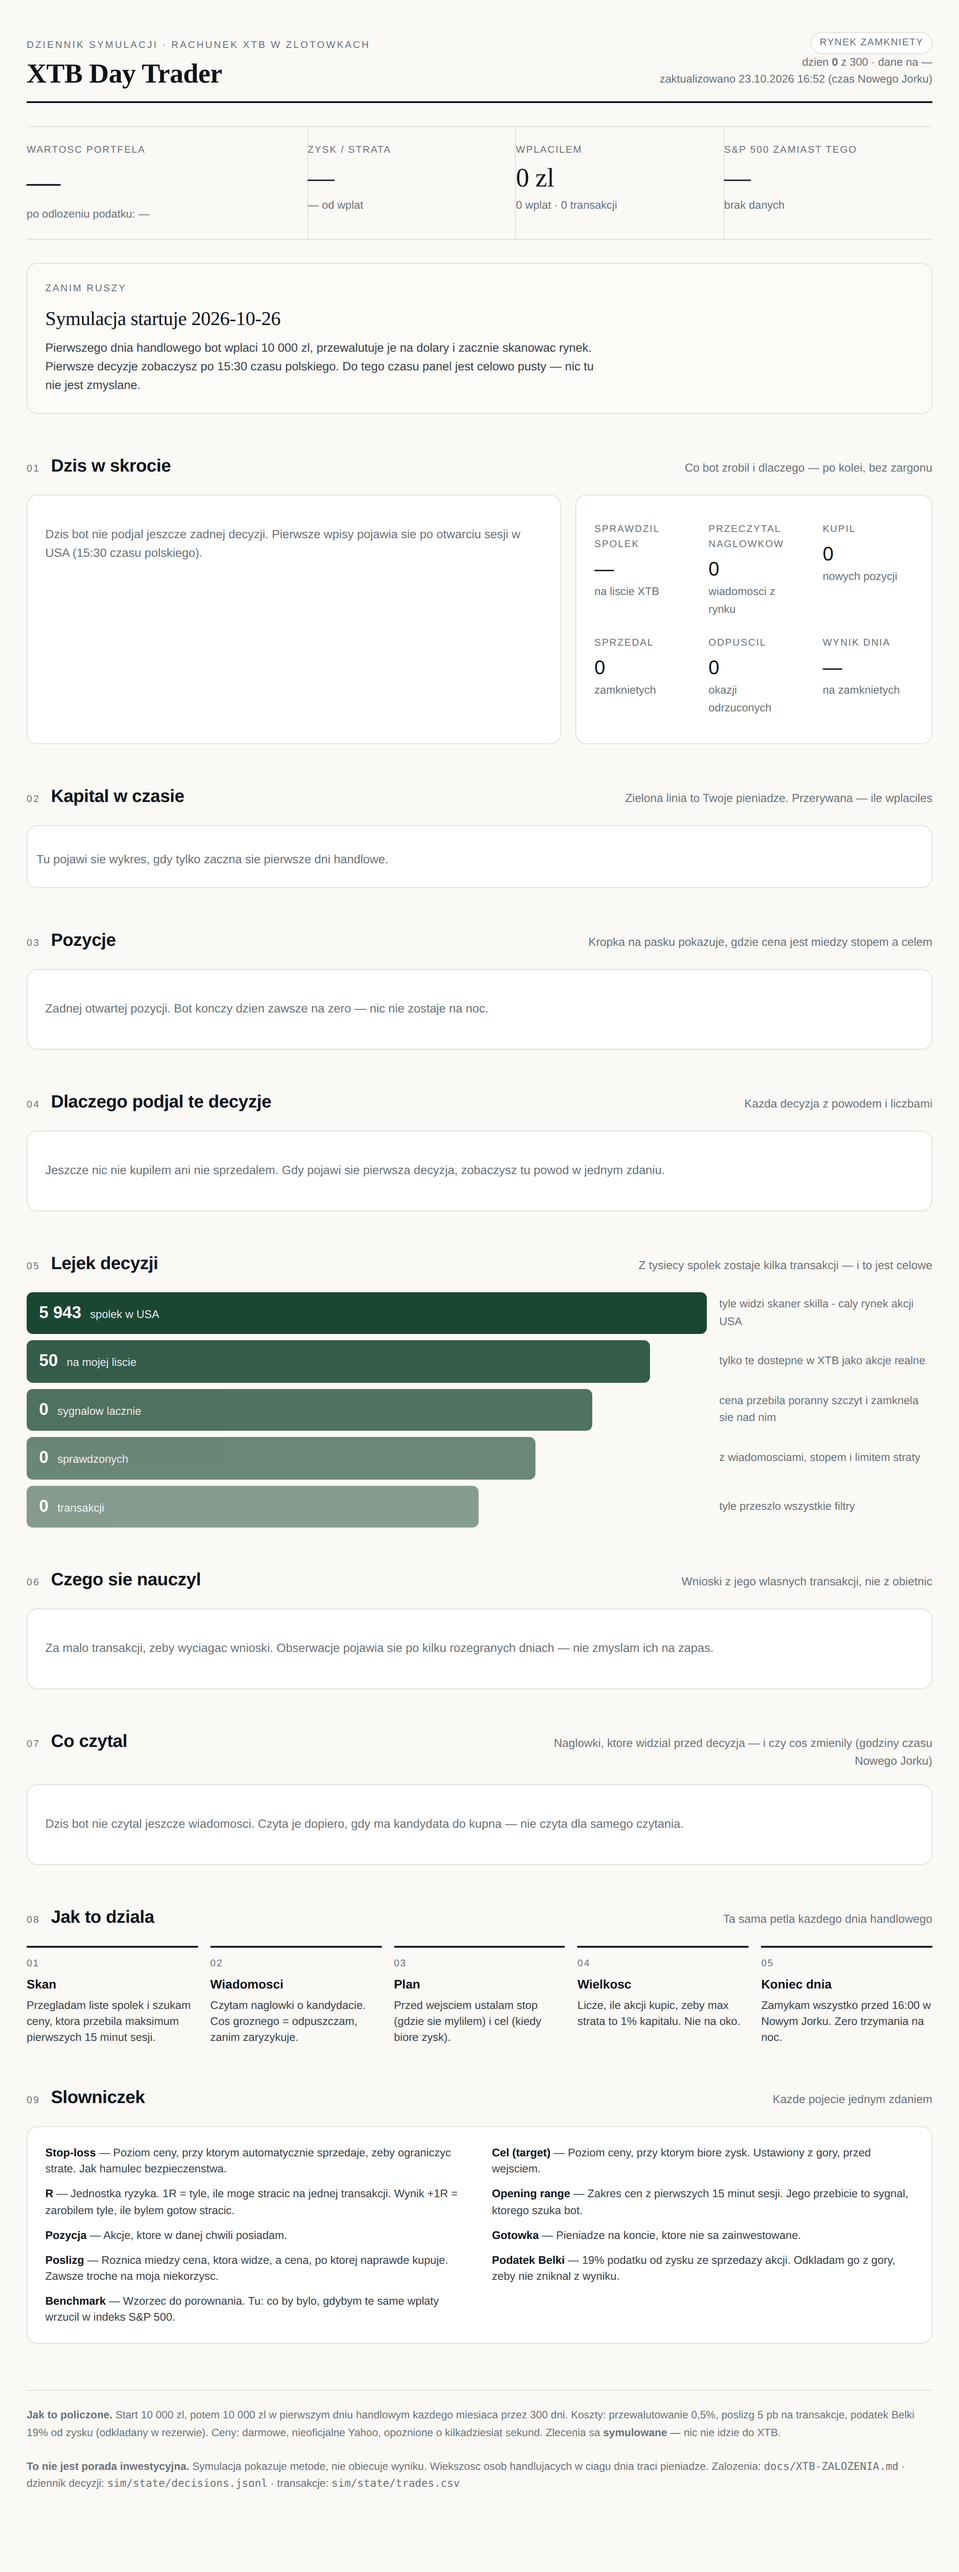
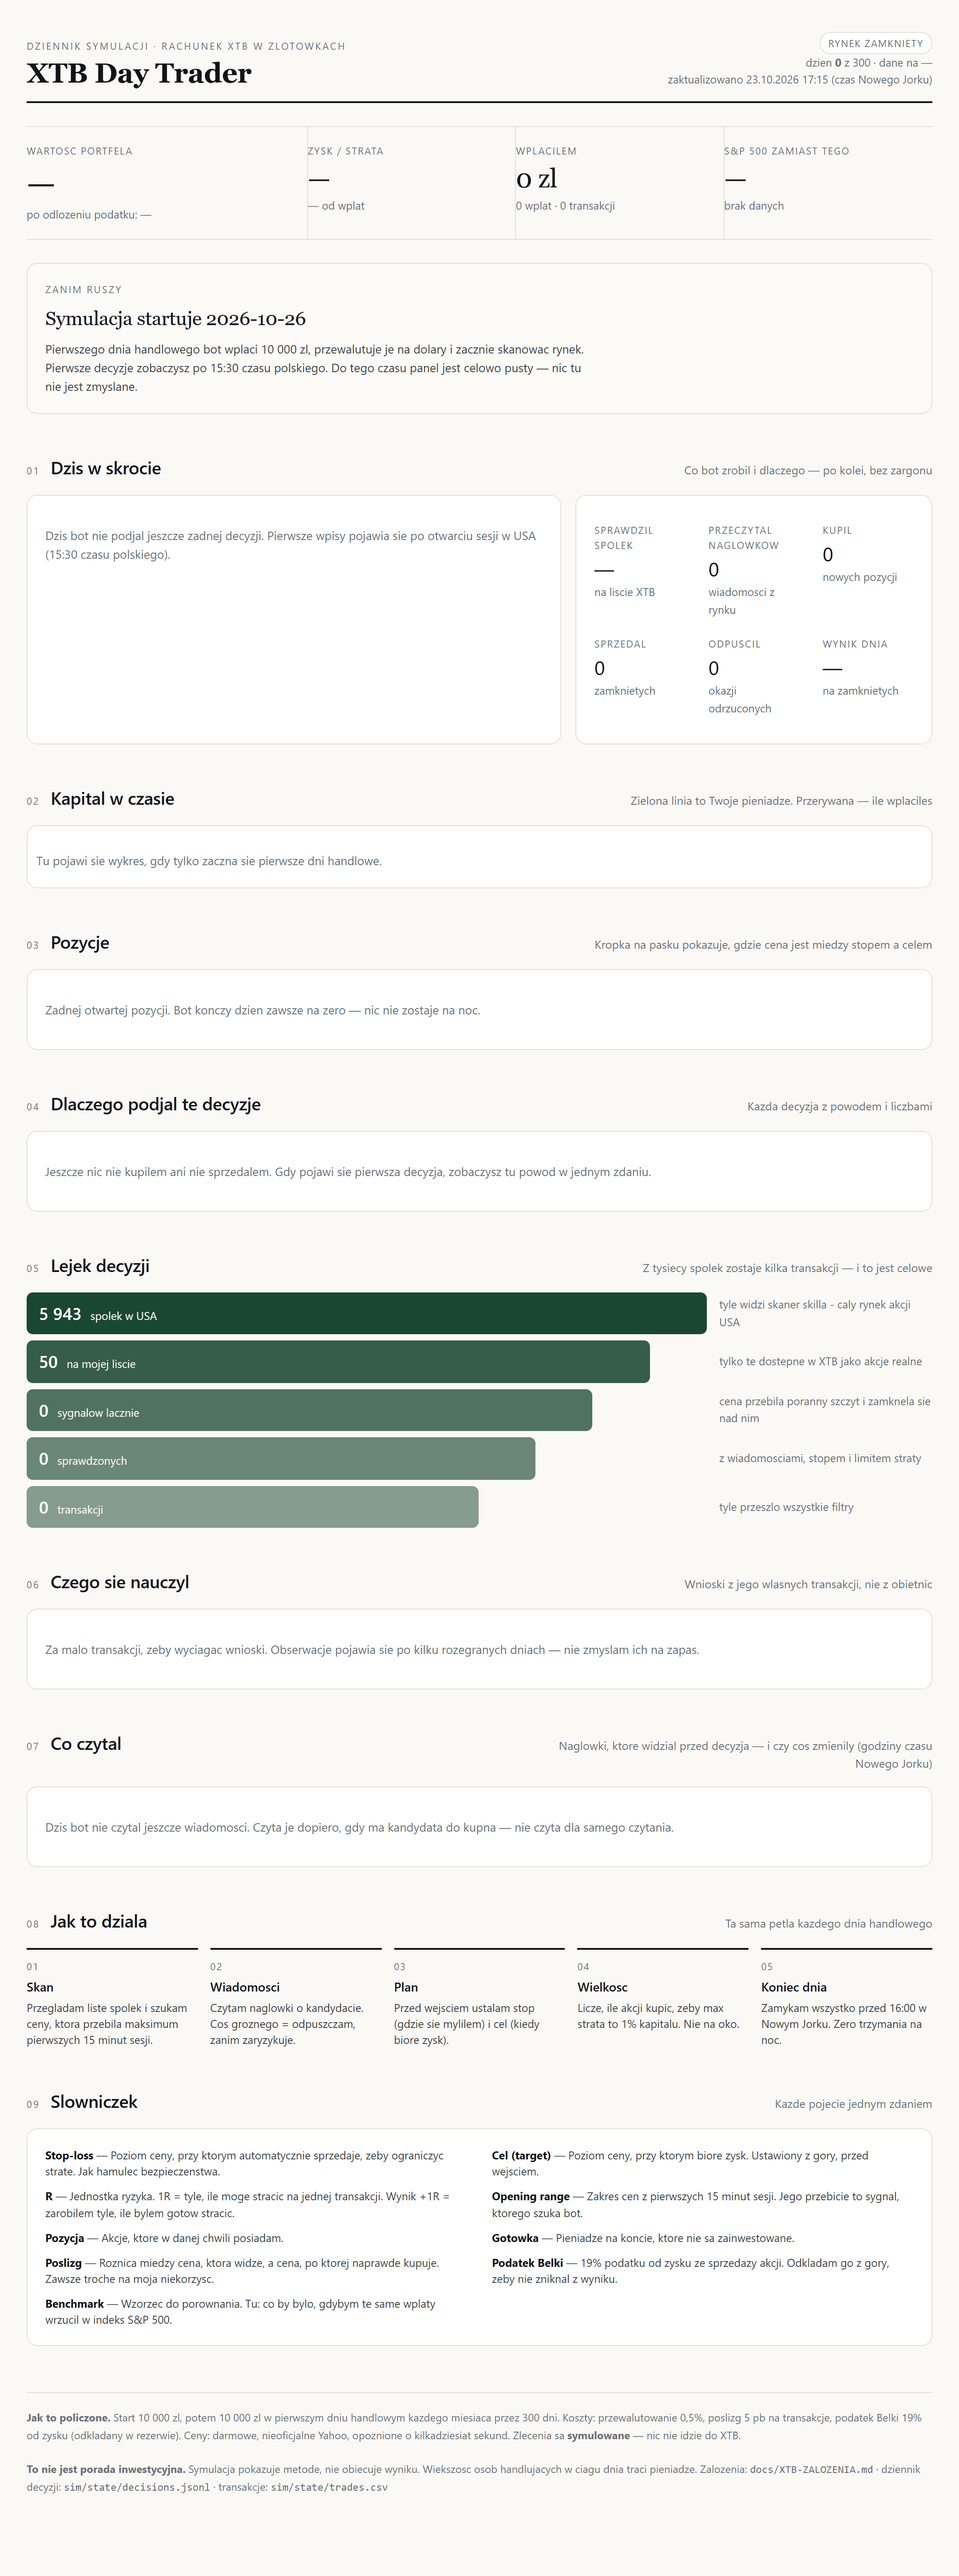
Ceny: tylko zamkniete swiece do decyzji, biezaca cena do wykonania
- last_price: ostatnia ZAMKNIETA swieca 5m (swieca w formowaniu nie jest faktem)
- live_price: biezacy tick do symulowanego wykonania zlecenia
- naprawia falszywy obraz w odtwarzaniu: wczesniej testy braly cene zamkniecia
  dnia zamiast ceny z odtwarzanej godziny (stad 27/dzien 'cena pod stopem')
- os czasu: odrzucenia zbiorczo po powodzie (29 linii -> 1 linia z liczba)
- plain: rozpoznaje komunikat 'the move has already happened'

diff --git a/docs/index.html b/docs/index.html
@@ -159,7 +159,7 @@ footer{margin-top:52px;border-top:1px solid var(--line);padding-top:18px;
   <div class="right">
     <span class="pill shut">rynek zamkniety</span><br>
     dzien <b>0</b> z 300 &middot; dane na —<br>
-    zaktualizowano 23.10.2026 16:52 (czas Nowego Jorku)
+    zaktualizowano 23.10.2026 17:15 (czas Nowego Jorku)
   </div>
 </div><div class="kpis">
   <div class="kpi">

diff --git a/sim/strategy.py b/sim/strategy.py
@@ -305,9 +305,10 @@ def _attempt(sim: dict, sym: str, now_dt, costs: dict) -> dict | None:
         )
         return None
 
-    # 1. Swieza cena (do pomiaru ryzyka i do fillu).
+    # 1. Ceny: zamknieta swieca do pomiaru ryzyka, cena wykonania do fillu.
     try:
-        px, _t = market.last_price(sym)
+        px, _t = market.last_price(sym)          # ostatnia zamknieta swieca 5m
+        px_fill, t_fill = market.live_price(sym)  # to, co zobaczylby trader
     except Exception as e:  # noqa: BLE001
         book.decide(sim, "skip", symbol=sym, code="dane",
                     title="Brak swiezej ceny %s" % sym,
@@ -380,7 +381,7 @@ def _attempt(sim: dict, sym: str, now_dt, costs: dict) -> dict | None:
     #     w zla strone. Jesli juz jest pod stopem (setup sie zepsul) albo nad
     #     celem (ruch sie wydarzyl) - nie wchodze. Bez tego wychodzily
     #     absurdalne transakcje: "stop" z zyskiem, bo stop byl nad wejsciem.
-    fill = xtb.slippage_price(px, "buy", slip)
+    fill = xtb.slippage_price(px_fill, "buy", slip)
     stop_lvl = float(plan.get("stop") or 0)
     target_lvl = float(plan.get("target") or 0)
     if stop_lvl and fill <= stop_lvl:
@@ -426,19 +427,20 @@ def _attempt(sim: dict, sym: str, now_dt, costs: dict) -> dict | None:
                      reason="ORB", now=now_dt)
 
     rng = entry_doc.get("opening_range") or {}
-    pct_over = ""
+    pct_over = "poranny szczyt"
     try:
         if rng.get("high"):
-            pct_over = "%+.2f%% nad szczytem" % ((float(entry_doc.get("price") or 0) / float(rng["high"]) - 1) * 100)
+            delta = (float(entry_doc.get("price") or 0) / float(rng["high"]) - 1) * 100
+            pct_over = ("o wlos nad szczytem" if abs(delta) < 0.03
+                        else "%+.2f%% nad szczytem" % delta)
     except (TypeError, ValueError, ZeroDivisionError):
-        pct_over = ""
+        pass
     book.decide(
         sim, "open", symbol=sym,
         title="Kupilem %s %s" % (int(qty), sym),
-        why=("Cena przebila poranny szczyt (%s) i zamknela sie nad nim. "
-             "Stop chroni mnie %.0f%% nizej, cel jest tak samo daleko jak stop."
-             % (pct_over or "zakres 15 min",
-                (1 - float(plan.get("stop") or 0) / max(fill, 0.01)) * 100)),
+        why=("Cena przebila szczyt pierwszych 15 minut (%s) i zamknela sie nad nim. "
+             "Stop chroni mnie %.1f%% nizej, a cel jest tak samo daleko jak stop."
+             % (pct_over, (1 - float(plan.get("stop") or 0) / max(fill, 0.01)) * 100)),
         numbers={
             "qty": int(qty), "entry": round(fill, 2), "stop": plan.get("stop"),
             "target": plan.get("target"), "risk_share": plan.get("risk_per_share"),

diff --git a/sim/insights.py b/sim/insights.py
@@ -199,12 +199,44 @@ def today_actions(sim: dict) -> list[dict]:
     keep = {"deposit", "scan", "open", "close", "block", "scan_empty", "news_summary"}
     dec = [d for d in _read_decisions()
            if str(d.get("ts_ny", "")).startswith(day) and d.get("decision") in keep]
+
+    # Odrzucenia zbiorczo po powodzie: 29 razy "cena juz odjechala" to jedna
+    # linia z liczba, a nie 29 linii. Inaczej os czasu zamienia sie w sciane.
+    from . import plain
+    agg: dict[str, dict] = {}
+    rest = []
+    for d in dec:
+        if d.get("decision") == "block":
+            code = d.get("code") or "inne"
+            slot = agg.setdefault(code, {"code": code, "count": 0, "symbols": [], "time": str(d.get("ts_ny"))})
+            slot["count"] += 1
+            sym = d.get("symbol")
+            if sym and sym not in slot["symbols"]:
+                slot["symbols"].append(sym)
+            slot["time"] = str(d.get("ts_ny"))
+        else:
+            rest.append(d)
+    blocks = []
+    for slot in sorted(agg.values(), key=lambda s: -s["count"])[:2]:
+        blocks.append({
+            "time": slot["time"][11:16],
+            "kind": "block",
+            "title": "Odpuscilem %d okazj%s: %s" % (
+                slot["count"],
+                "e" if slot["count"] == 1 else "i",
+                plain.title_for(slot["code"]).lower()),
+            "why": "%s Sprawdzone spolki: %s." % (
+                plain.meaning_for(slot["code"]),
+                ", ".join(slot["symbols"][:5]) if slot["symbols"] else "kilka"),
+            "symbol": "",
+            "numbers": {"ile": slot["count"], "kod": slot["code"]},
+        })
+    dec = rest
     dec.sort(key=lambda d: str(d.get("ts_ny")))
-    if len(dec) > 10:
-        # jesli za duzo - zostaw najwazniejsze typy, potem najnowsze
-        prio = {"deposit": 0, "open": 0, "close": 0, "news_summary": 1, "block": 2, "scan": 3, "scan_empty": 4}
+    if len(dec) > 8:
+        prio = {"deposit": 0, "open": 0, "close": 0, "news_summary": 1, "scan": 2, "scan_empty": 3}
         dec.sort(key=lambda d: (prio.get(d.get("decision"), 9), str(d.get("ts_ny"))))
-        dec = dec[:10]
+        dec = dec[:8]
         dec.sort(key=lambda d: str(d.get("ts_ny")))
     out = []
     for d in dec:
@@ -216,4 +248,6 @@ def today_actions(sim: dict) -> list[dict]:
             "symbol": d.get("symbol") or "",
             "numbers": d.get("numbers") or {},
         })
+    out = out + blocks
+    out.sort(key=lambda x: x.get("time") or "")
     return out

diff --git a/sim/market.py b/sim/market.py
@@ -129,16 +129,47 @@ def bars_for_day(symbol: str, day: date, interval: str = "5m") -> list[dict]:
     return out
 
 
-def last_price(symbol: str) -> tuple[float, float]:
-    """(cena, znacznik czasu epoch). Bierze ostatnia niepusta swiece 5m."""
+def last_price(symbol: str, as_of=None) -> tuple[float, float]:
+    """(cena, znacznik czasu epoch) ostatniej ZAMKNIETEJ swiecy 5m.
+
+    Dlaczego tylko zamkniete: swieca w trakcie formowania ma cene zmieniajaca
+    sie z sekundy na sekunde i nie jest jeszcze faktem. Poza tym przy
+    odtwarzaniu przeszlego dnia (SIM_NOW) naiwne "ostatnia swieca" bralo cene
+    ZAMKNIECIA DNIA, a nie cene z odtwarzanej godziny - co falszowalo wyniki
+    testow (np. zlecenia "odrzucone, bo cena pod stopem", ktore w rzeczywistosci
+    bylyby wazne).
+    """
     doc = chart(symbol, "1d", "5m")
     bs = doc["bars"]
-    if not bs:
-        mp = doc["meta"].get("regularMarketPrice")
-        if mp:
-            return float(mp), float(doc["meta"].get("regularMarketTime") or time.time())
-        raise MarketError("brak ceny dla %s" % symbol)
-    return bs[-1]["c"], bs[-1]["t"]
+    now_epoch = int(ses.now_ny(as_of).timestamp())
+    done = [b for b in bs if b["t"] + 300 <= now_epoch]
+    if done:
+        return done[-1]["c"], done[-1]["t"]
+    meta = doc.get("meta") or {}
+    mp = meta.get("regularMarketPrice")
+    if mp:
+        return float(mp), float(meta.get("regularMarketTime") or now_epoch)
+    if bs:
+        return bs[-1]["c"], bs[-1]["t"]
+    raise MarketError("brak ceny dla %s" % symbol)
+
+
+def live_price(symbol: str) -> tuple[float, float]:
+    """Cena, po ktorej REALNIE wykonaloby sie zlecenie rynkowe.
+
+    Przy prawdziwym zegarze: ostatni tick z meta Yahoo (to jest cena, ktora
+    widzi trader). Przy odtwarzaniu przeszlego dnia: ostatnia zamknieta swieca,
+    bo meta zwraca wtedy cene konca dnia - czyli przyszlosc wzgledem
+    odtwarzanej godziny.
+    """
+    if os.environ.get("SIM_NOW"):
+        return last_price(symbol)
+    doc = chart(symbol, "1d", "5m")
+    meta = doc.get("meta") or {}
+    mp = meta.get("regularMarketPrice")
+    if mp:
+        return float(mp), float(meta.get("regularMarketTime") or time.time())
+    return last_price(symbol)
 
 
 def fx_usdpln() -> float:

diff --git a/sim/plain.py b/sim/plain.py
@@ -58,9 +58,10 @@ BLOCK_RULES: list[tuple[tuple[str, ...], str, str, str]] = [
 ]
 
 SIZE_RULES: list[tuple[tuple[str, ...], str, str, str]] = [
-    (("reward:risk", "the move it was waiting for"), "cel",
+    (("reward:risk", "the move it was waiting for", "the move has already happened",
+      "not above the entry"), "cel",
      "Cena juz odjechala - nie gonie",
-     "Do celu zostalo zbyt malo miejsca. Wejscie teraz to gra o grosze przy duzym ryzyku."),
+     "Cena poszla wyzej, niz mialem w planie, zanim zdazylem kupic. Do celu nie ma juz miejsca."),
     (("too far away", "zero shares", "no order"), "strata",
      "Stop zbyt daleko jak na limit straty",
      "Przy tym stopie nawet 1 akcja ryzykuje wiecej, niz pozwalaja zasady."),
@@ -104,6 +105,23 @@ def exit_reason(code: str) -> tuple[str, str]:
 
 def exit_short(code: str) -> str:
     return EXIT_SHORT.get(code, code or "-")
+
+
+def meaning_for(code: str) -> str:
+    """Jedno zdanie 'co to znaczy' dla kodu odrzucenia (zbiorczo dla panelu)."""
+    for rules in (BLOCK_RULES, SIZE_RULES):
+        for keys, c, _title, meaning in rules:
+            if c == code:
+                return meaning
+    return "Zlecenie nie przeszlo kontroli."
+
+
+def title_for(code: str) -> str:
+    for rules in (BLOCK_RULES, SIZE_RULES):
+        for keys, c, title, meaning in rules:
+            if c == code:
+                return title
+    return "Odrzucone przez kontrole ryzyka"
 
 
 GLOSSARY = [

diff --git a/docs/XTB-ZALOZENIA.md b/docs/XTB-ZALOZENIA.md
@@ -104,6 +104,20 @@ czasem minut. Jeśli w tym czasie:
 Ryzyko na akcję liczone jest od **faktycznej** ceny wejścia do stopu, nie od
 ceny z planu. Dzięki temu „R” w panelu pokazuje prawdę.
 
+**Dwie ceny, celowo różne.** Do pomiaru ryzyka i do wyceny portfela używana
+jest cena z **ostatniej zamkniętej** świecy 5-minutowej — to fakt, a nie
+drgnięcie w trakcie formowania świecy. Do symulowanego wykonania zlecenia
+używana jest cena **bieżąca** (ostatni tick z Yahoo), bo taką cenę widzi
+trader klikający „kup” i po takiej realizuje się zlecenie rynkowe. Różnica
+między nimi bywa kilkuminutowa i jest wliczona w wynik — nie zakładam, że
+kupuję po cenie, którą widziałem kilka minut wcześniej.
+
+Przy odtwarzaniu przeszłego dnia (tryb testowy z zamrożonym zegarem) obie
+ceny to ostatnia zamknięta świeca **do odtwarzanej godziny**, a nie cena
+zamknięcia dnia. Bez tego testy pokazywałyby przyszłość: wychodziły
+„odrzucone, bo cena zjechała pod stop”, choć o odtwarzanej godzinie cena była
+jeszcze w porządku.
+
 ## 7. Limity ryzyka (domyślne)
 
 | Limit | Wartość | Znaczenie |
